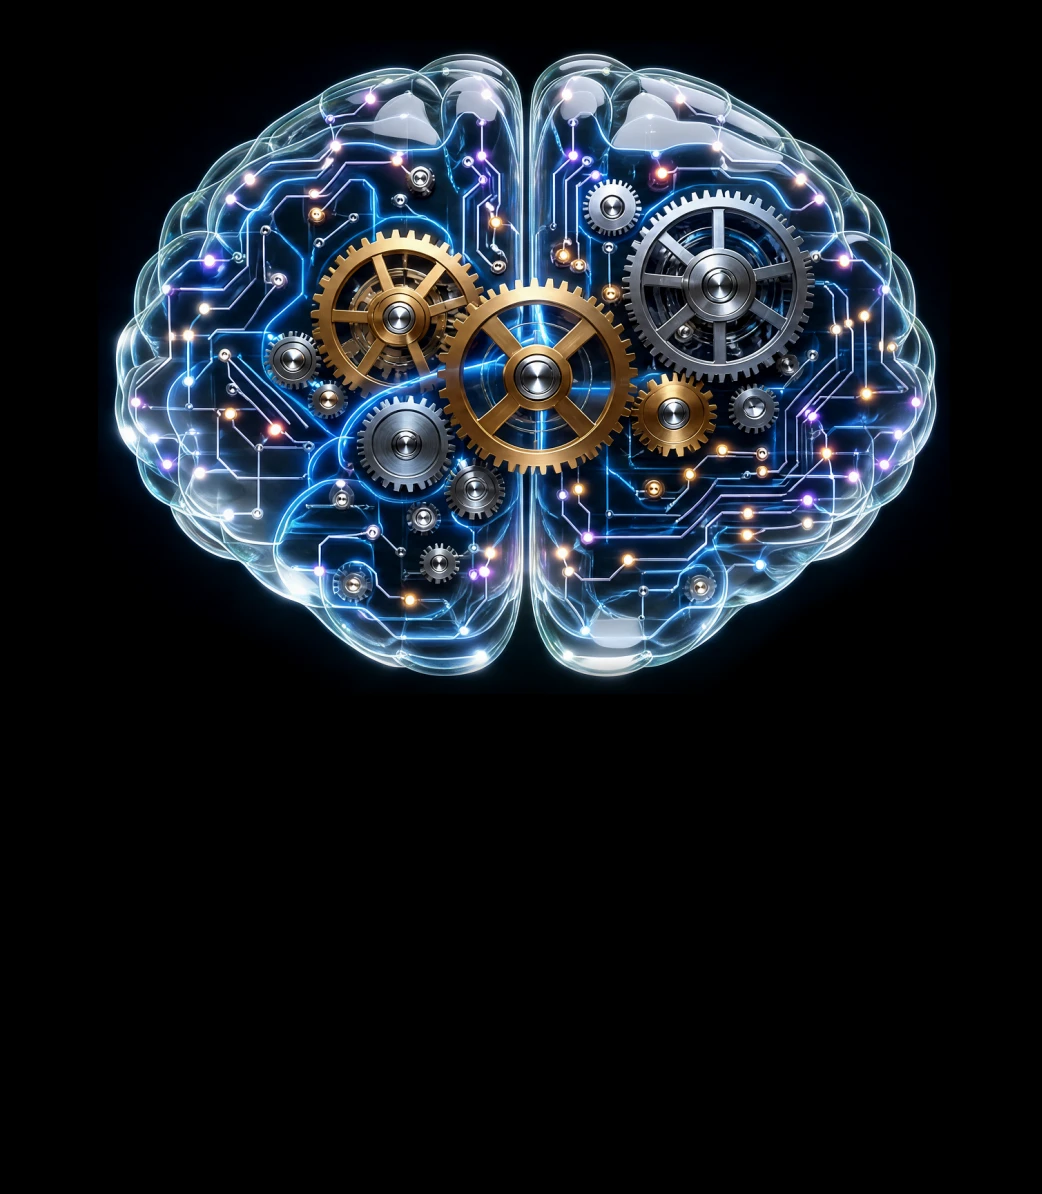
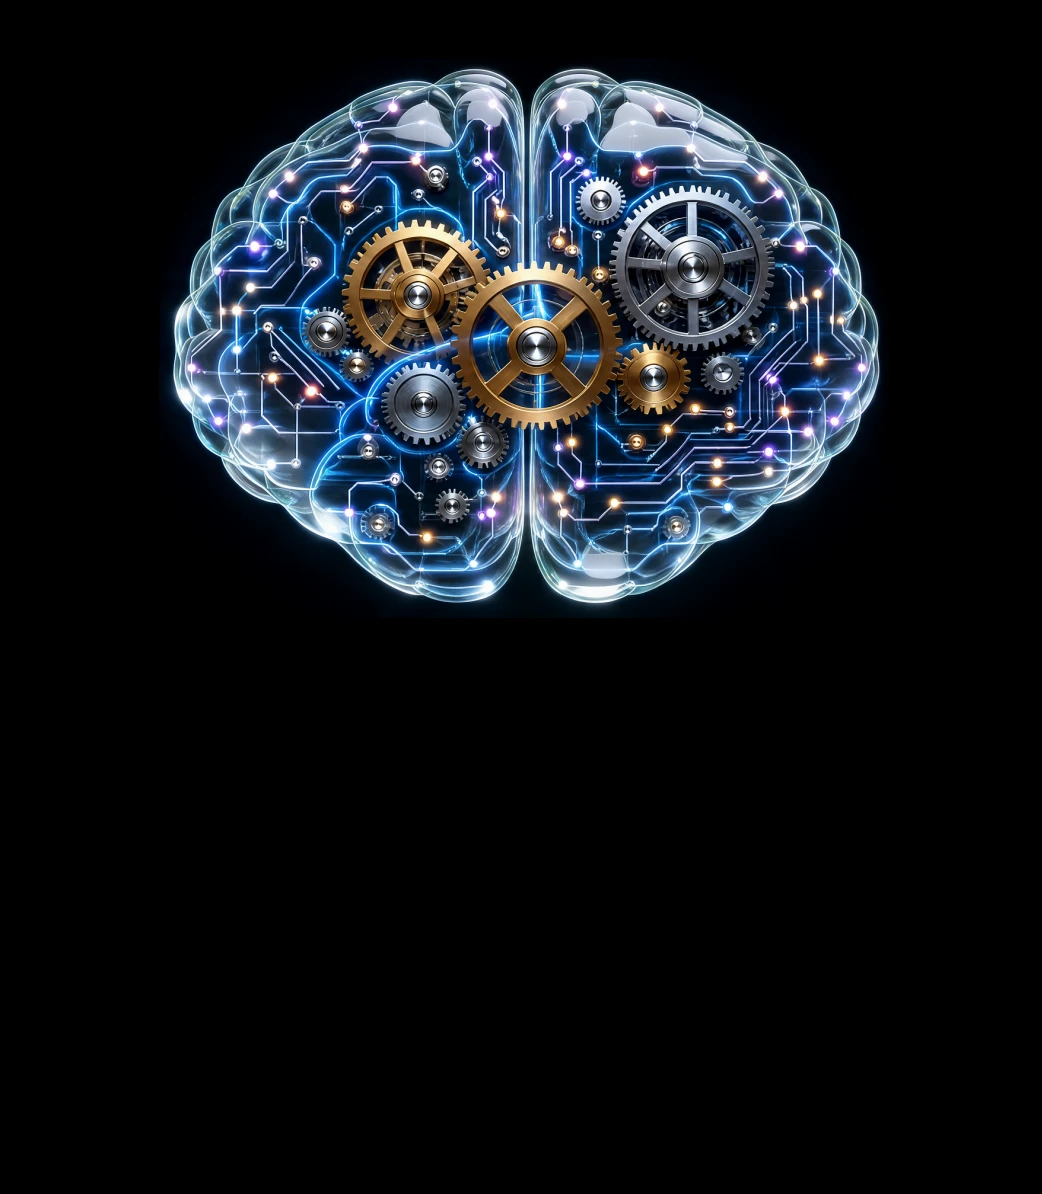
Clear wallpaper: full glass skull (magnific expand), brain refitted inside it

Changed region(s): [[0.0921, 0.031, 0.9213, 0.5888]]

diff --git a/app/src/main/java/com/jp/otherworld/wallpaper/Wallpapers.kt b/app/src/main/java/com/jp/otherworld/wallpaper/Wallpapers.kt
@@ -201,6 +201,8 @@ open class AlienWallpaperService : WallpaperService() {
     open val faceDrop = 0f
     /** How strongly the brain shows (1 = full; lower = more see-through). */
     open val brainStrength = 1f
+    /** The brain picture is fitted in the face's own coordinates, so it moves down with the face. */
+    open val brainWithFace = false
     override fun onCreateEngine(): Engine = AlienEngine()
 
     private inner class AlienEngine : Engine(), android.hardware.SensorEventListener {
@@ -428,7 +430,7 @@ open class AlienWallpaperService : WallpaperService() {
                 // exactly as if it sat behind it (screen works the same in either order).
                 brain?.let { b ->
                     // Same place as before the face moved down: undo the drop for the brain.
-                    val up = alien.height * faceDrop
+                    val up = if (brainWithFace) 0f else alien.height * faceDrop
                     brainRect.set(0f, -up, alien.width.toFloat(), alien.height - up)
                     c.drawBitmap(b, null, brainRect, brainPaint)
                 }
@@ -545,6 +547,7 @@ class AlienClearWallpaperService : AlienWallpaperService() {
     override val brainAsset = "alien_clear_brain_layer.webp"
     override val faceDrop = CLEAR_FACE_DROP
     override val brainStrength = 0.6f
+    override val brainWithFace = true
 }
 
 /** White (ice) alien with the user's brain (art/originals/brain.svg) glowing inside the skull. */

diff --git a/art/README.md b/art/README.md
@@ -84,3 +84,4 @@ generated/icon/store/: play_store_512.png (Play listing), app_store_1024.png (no
 | assets/alien_clear_brain_layer.webp | "make brain fit better" (2026-10-13): the glass brain fitted to the glass alien's own dome: 92% of its widest part above the eyes (capped so it ends at mid-eye), centred, kept just inside the glass rim, eyes clear, soft fade at the bottom. Used only by the Clear wallpaper. |
 | Clear: face moved down | "bring head down further leave brain where it is" (2026-10-13): the Clear wallpaper draws the glass face 8% of its height lower (faceDrop), the brain layer stays put; the eye-hold spots move with it; the source's flat-cut top is faded over 5%. |
 | Clear: brain more see-through | "make brain more clear" (2026-10-13): the brain is screened at 60% on the Clear wallpaper. |
+| generated/alien_glass_expanded.png | magnific Expand (50 credits, 2026-10-13, "fix top of skull its missing"): the glass alien extended to 2:3 so the whole dome is drawn. Now the source of derived/alien_clear.png (eyes centred on the original alien's, scaled 0.497 so the dome fits); the glass brain is refitted inside this dome (alien_clear_brain_layer.webp) and moves down with the face. |
